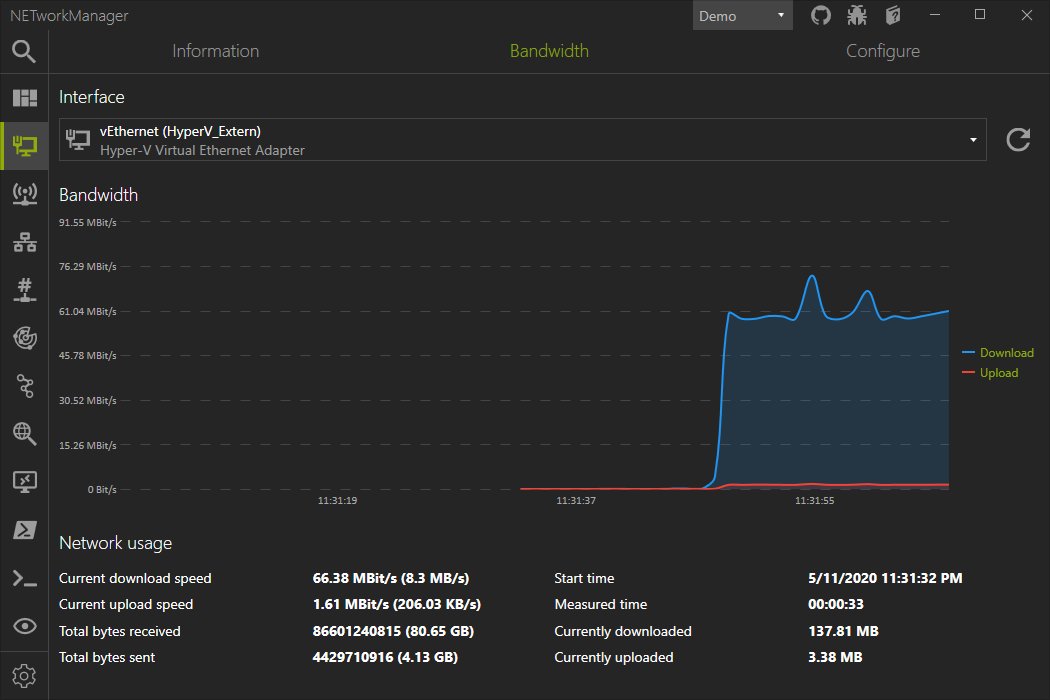
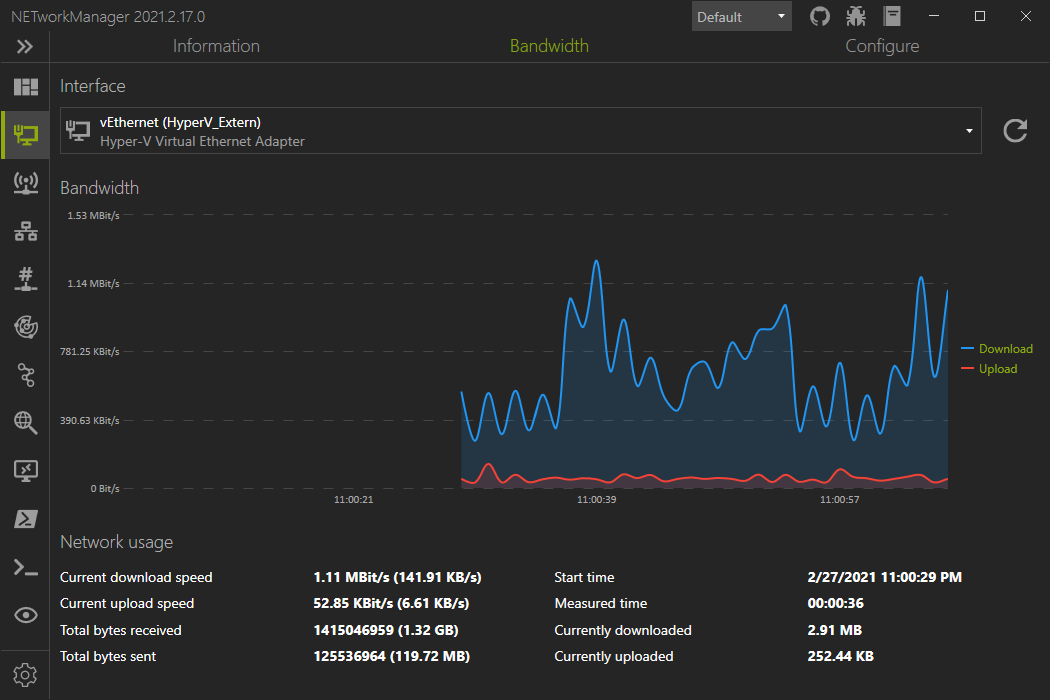
Add description

diff --git a/docs/Application/02_NetworkInterface.md b/docs/Application/02_NetworkInterface.md
@@ -8,16 +8,51 @@ permalink: /Application/NetworkInterface
 ---
 
 # Network Interface
-
-The **Network Interface** tool detects all network adapters of the computer with the most important information (such as IP addresses, DNS servers, etc.). Connected network cards can be configured using profiles.
+The tool **Network Interface** detects all network adapter of the computer with the most important information (like IP addresses, DNS servers etc.). The bandwidth of the connected network adapter can be monitored and the configuration can be changed via profiles.
 
 ## Information
+In the Information view, you can see all the important details of the selected network adapter such as the configured IP addresses, DNS servers, MAC address, and more. If information such as IPv6 configuration is not available, it is hidden in the view.
 
 ![NetworkInterface_Information](02_NetworkInterface_Information.png)
 
 ## Bandwidth
+The bandwith of the selected network adapter is monitored as long as the tool **Network Interface** is selected. If you switch to another tool, the monitoring is paused and will be reset once you switch back again.
+
+You can see the current download and upload speed in Bit/s (B/s). Depending on the bandwith you are using its automatically adjusting to KBit/s (KB/s), MBit/s (MB/s) or GBit/s (GB/s). It also displays since when the bandwidth is measured and how much has been downloaded and uploaded since then.
+
 ![NetworkInterface_Bandwidth](02_NetworkInterface_Bandwidth.png)
 
 ## Configure
 
+In the configuration view you can change the configuration of the selected network adapter. To change the settings, the network adapter must be connected. The options you can set correspond to the network adapter properties `Internetprotokoll, Version 4 (TCP/IPv4) Properties` in the `Control Panel > Network and Internet > Network Connections`. These are explained in the [profiles section](#profile).
+
+The **Add IPv4-address...** button will open a dialog where you can enter an additional IPv4 address and a subnetmask. If you click the the **Add** button, it willbe assigned to the selected network adapter.
+
 ![NetworkInterface_Configure](02_NetworkInterface_Configure.png)
+
+## Profile
+
+![NetworkInterface_Configure](02_NetworkInterface_Profile.png)
+
+### Obtain an IP address automatically
+
+
+
+### Use the following IP address:
+
+**IPv4 address**
+
+
+**Subnetmask or CIDR**
+
+
+**Default-Gateway**
+
+### Obtain DNS server address automatically
+
+### Use the following DNS server addresses:
+
+**Primary DNS server**
+
+
+**Secondary DNS server**
